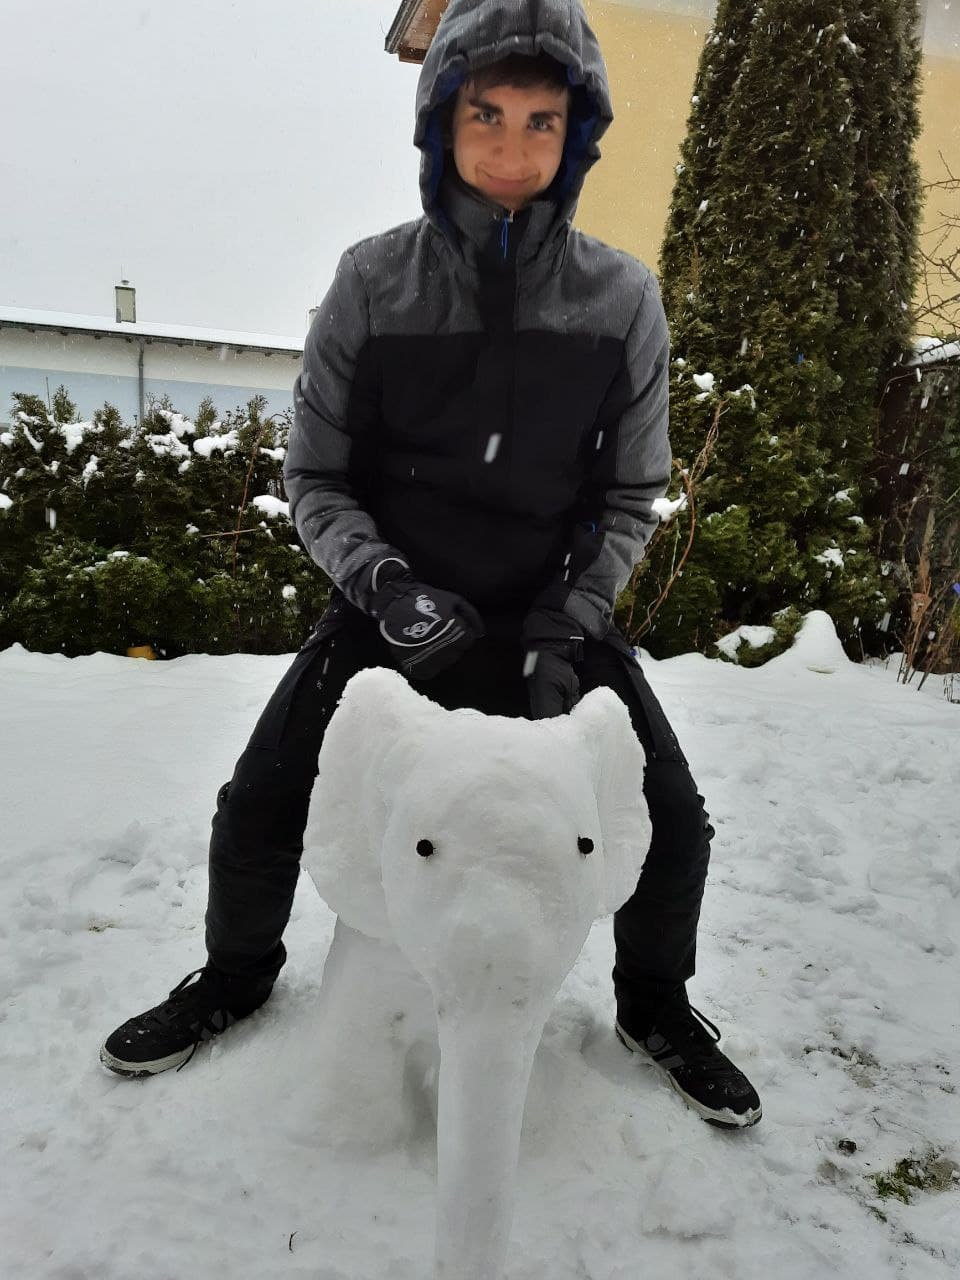
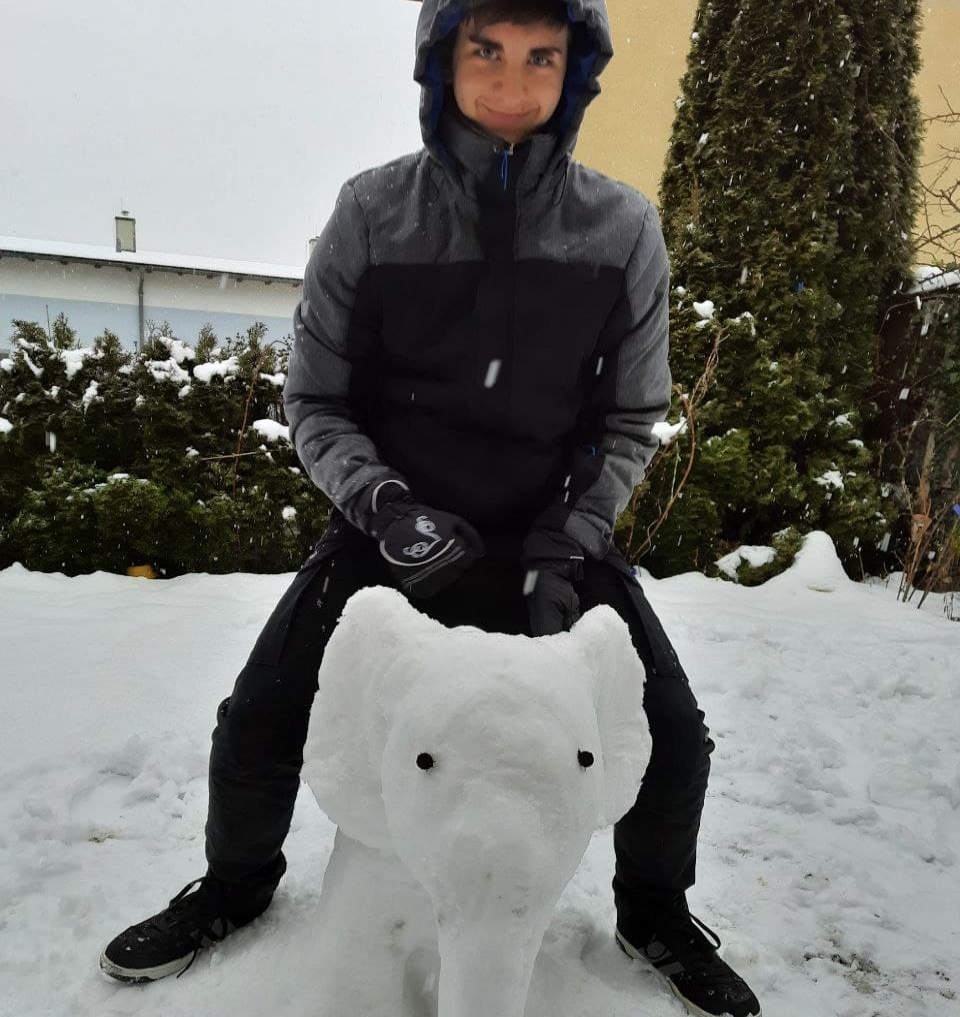
fix spelling, fill in text to personal life

diff --git a/index.html b/index.html
@@ -399,7 +399,7 @@
           Hi, I am
           <span id="age-max">? Years</span> old and graduated from the HTL
           Salzburg in may 2021. I was born and raised in Salzburg and currently
-          have my own flat, although I am not planinng on staying here. Software
+          have my own flat, although I am not planning on staying here. Software
           development, gaming and repairing mobile phones myself count to my
           hobbies. After having tried out many different sports I stuck with
           dancing where I met my dancing partner and girlfriend Elena.
@@ -419,7 +419,7 @@
           ago in a dance class and it didn't take long until we became dance
           partners, opening balls and dancing in formations. After 2 years we
           started our relationship in november 2020. She graduated in may 2020
-          and currently visits to university, studying graphic design. Elena
+          and currently visits university, studying graphic design. Elena
           loves crafting, drawing and reading.
         </div>
         <p class="c1" style="aspect-ratio: 1">
@@ -436,8 +436,11 @@
         </p>
         <div class="c1" style="aspect-ratio: 1">
           <h2>Friends</h2>
-          is my favourite human with big ears. She is currently old and has the
-          most fierce lickety you can imagine.
+          Most of my friends I am still in contact with I met in dance school as
+          the majority of my childhood friends and former school classmates are
+          studying or working in different cities now. Nonetheless, the closest
+          of my friends and I still try to keep in contact through talking on
+          discord or going on an adventure every now and then.
         </div>
         <p class="c1" style="aspect-ratio: 1">
           <img
@@ -458,16 +461,14 @@
           />
         </p>
         <div class="c1" style="aspect-ratio: 1">
-          <h2>Adventure</h2>
-          is my favourite human with big ears. She is currently old and has the
-          most fierce lickety you can imagine.
+          <h2>Croatia</h2>
+          The best adventure I have ever been on has to the trip to croatia with
+          Elena and her family. Sleeping in a tiny tent at the rocky beach of a
+          clear water ocean bay. Watching the stars at night, haggling for fresh
+          fish in the morning and dipping into the cool blue ocean's water at
+          noon. We also went stand up paddling and did some hiking over the
+          little mountains of Cres.
         </div>
-        <p class="c1" style="aspect-ratio: 1">
-          <img
-            src="assets/personal-life/campfire.jpg"
-            alt="Cat and 2 little paws"
-          />
-        </p>
         <p class="c1 r2">
           <img
             src="assets/personal-life/forest.jpg"
@@ -486,20 +487,76 @@
             alt="Cat and 2 little paws"
           />
         </p>
+        <div class="c1" style="aspect-ratio: 1">
+          <h2>Adventure</h2>
+          I love doing backyard campfires with friends and throwing in
+          any branch I can find. Over the years I have also been on the
+          occasional snowboard trip, though I wouldn't say I'm great. My
+          girlfriend and I love carving pumpkins and building snow animals
+          together. The adventures I'm most proud of are everything I've done in
+          the urbex category.
+        </div>
+        <p class="c1" style="aspect-ratio: 1">
+          <img
+            src="assets/personal-life/campfire.jpg"
+            alt="Cat and 2 little paws"
+          />
+        </p>
         <p class="c1" style="aspect-ratio: 1">
           <img
             src="assets/personal-life/pumpkin.jpg"
             alt="Cat and 2 little paws"
           />
         </p>
+        <p class="c1" style="aspect-ratio: 1">
+          <img
+            src="assets/personal-life/snow-elephant.jpg"
+            alt="Cat and 2 little paws"
+          />
+        </p>
+        <div class="c1" style="aspect-ratio: 1">
+          <h2>Urban Exploration</h2>
+          or short urbex describes the act of exploring abandoned buildings,
+          hidden places or high rooftops. I came across this hobby through my
+          way too short parkour journey and it has fascinated me ever since.
+          Climbing cranes, buildings, jumping across rooftops and just wanting
+          to know what lies behind that old factory I've walked past my whole
+          life.
+        </div>
+        <p class="c1" style="aspect-ratio: 1">
+          <img
+            src="assets/personal-life/paracelsius.jpg"
+            alt="Cat and 2 little paws"
+          />
+        </p>
+        <p class="c2 r2" style="aspect-ratio: 1">
+          <img
+            src="assets/personal-life/knees.jpg"
+            alt="Cat and 2 little paws"
+          />
+        </p>
+        <p class="c2 r1">
+          <img
+            src="assets/personal-life/gaisberg.jpg"
+            alt="Cat and 2 little paws"
+          />
+        </p>
         <div class="c1" style="aspect-ratio: 1">
           <h2>Military</h2>
-          is my favourite human with big ears. She is currently old and has the
-          most fierce lickety you can imagine.
+          As an austrian citizen, I absolved my 6 month mandatory military
+          service in 2021. Although not having had a good time at all there and
+          not really accomplishing anything nor earning any saving during this
+          time period, my relationship with my girlfriend grew a lot stronger.
         </div>
         <p class="c1" style="aspect-ratio: 1">
           <img
             src="assets/personal-life/military.jpg"
+            alt="Cat and 2 little paws"
+          />
+        </p>
+        <p class="c1" style="aspect-ratio: 1">
+          <img
+            src="assets/personal-life/doggo.jpg"
             alt="Cat and 2 little paws"
           />
         </p>
